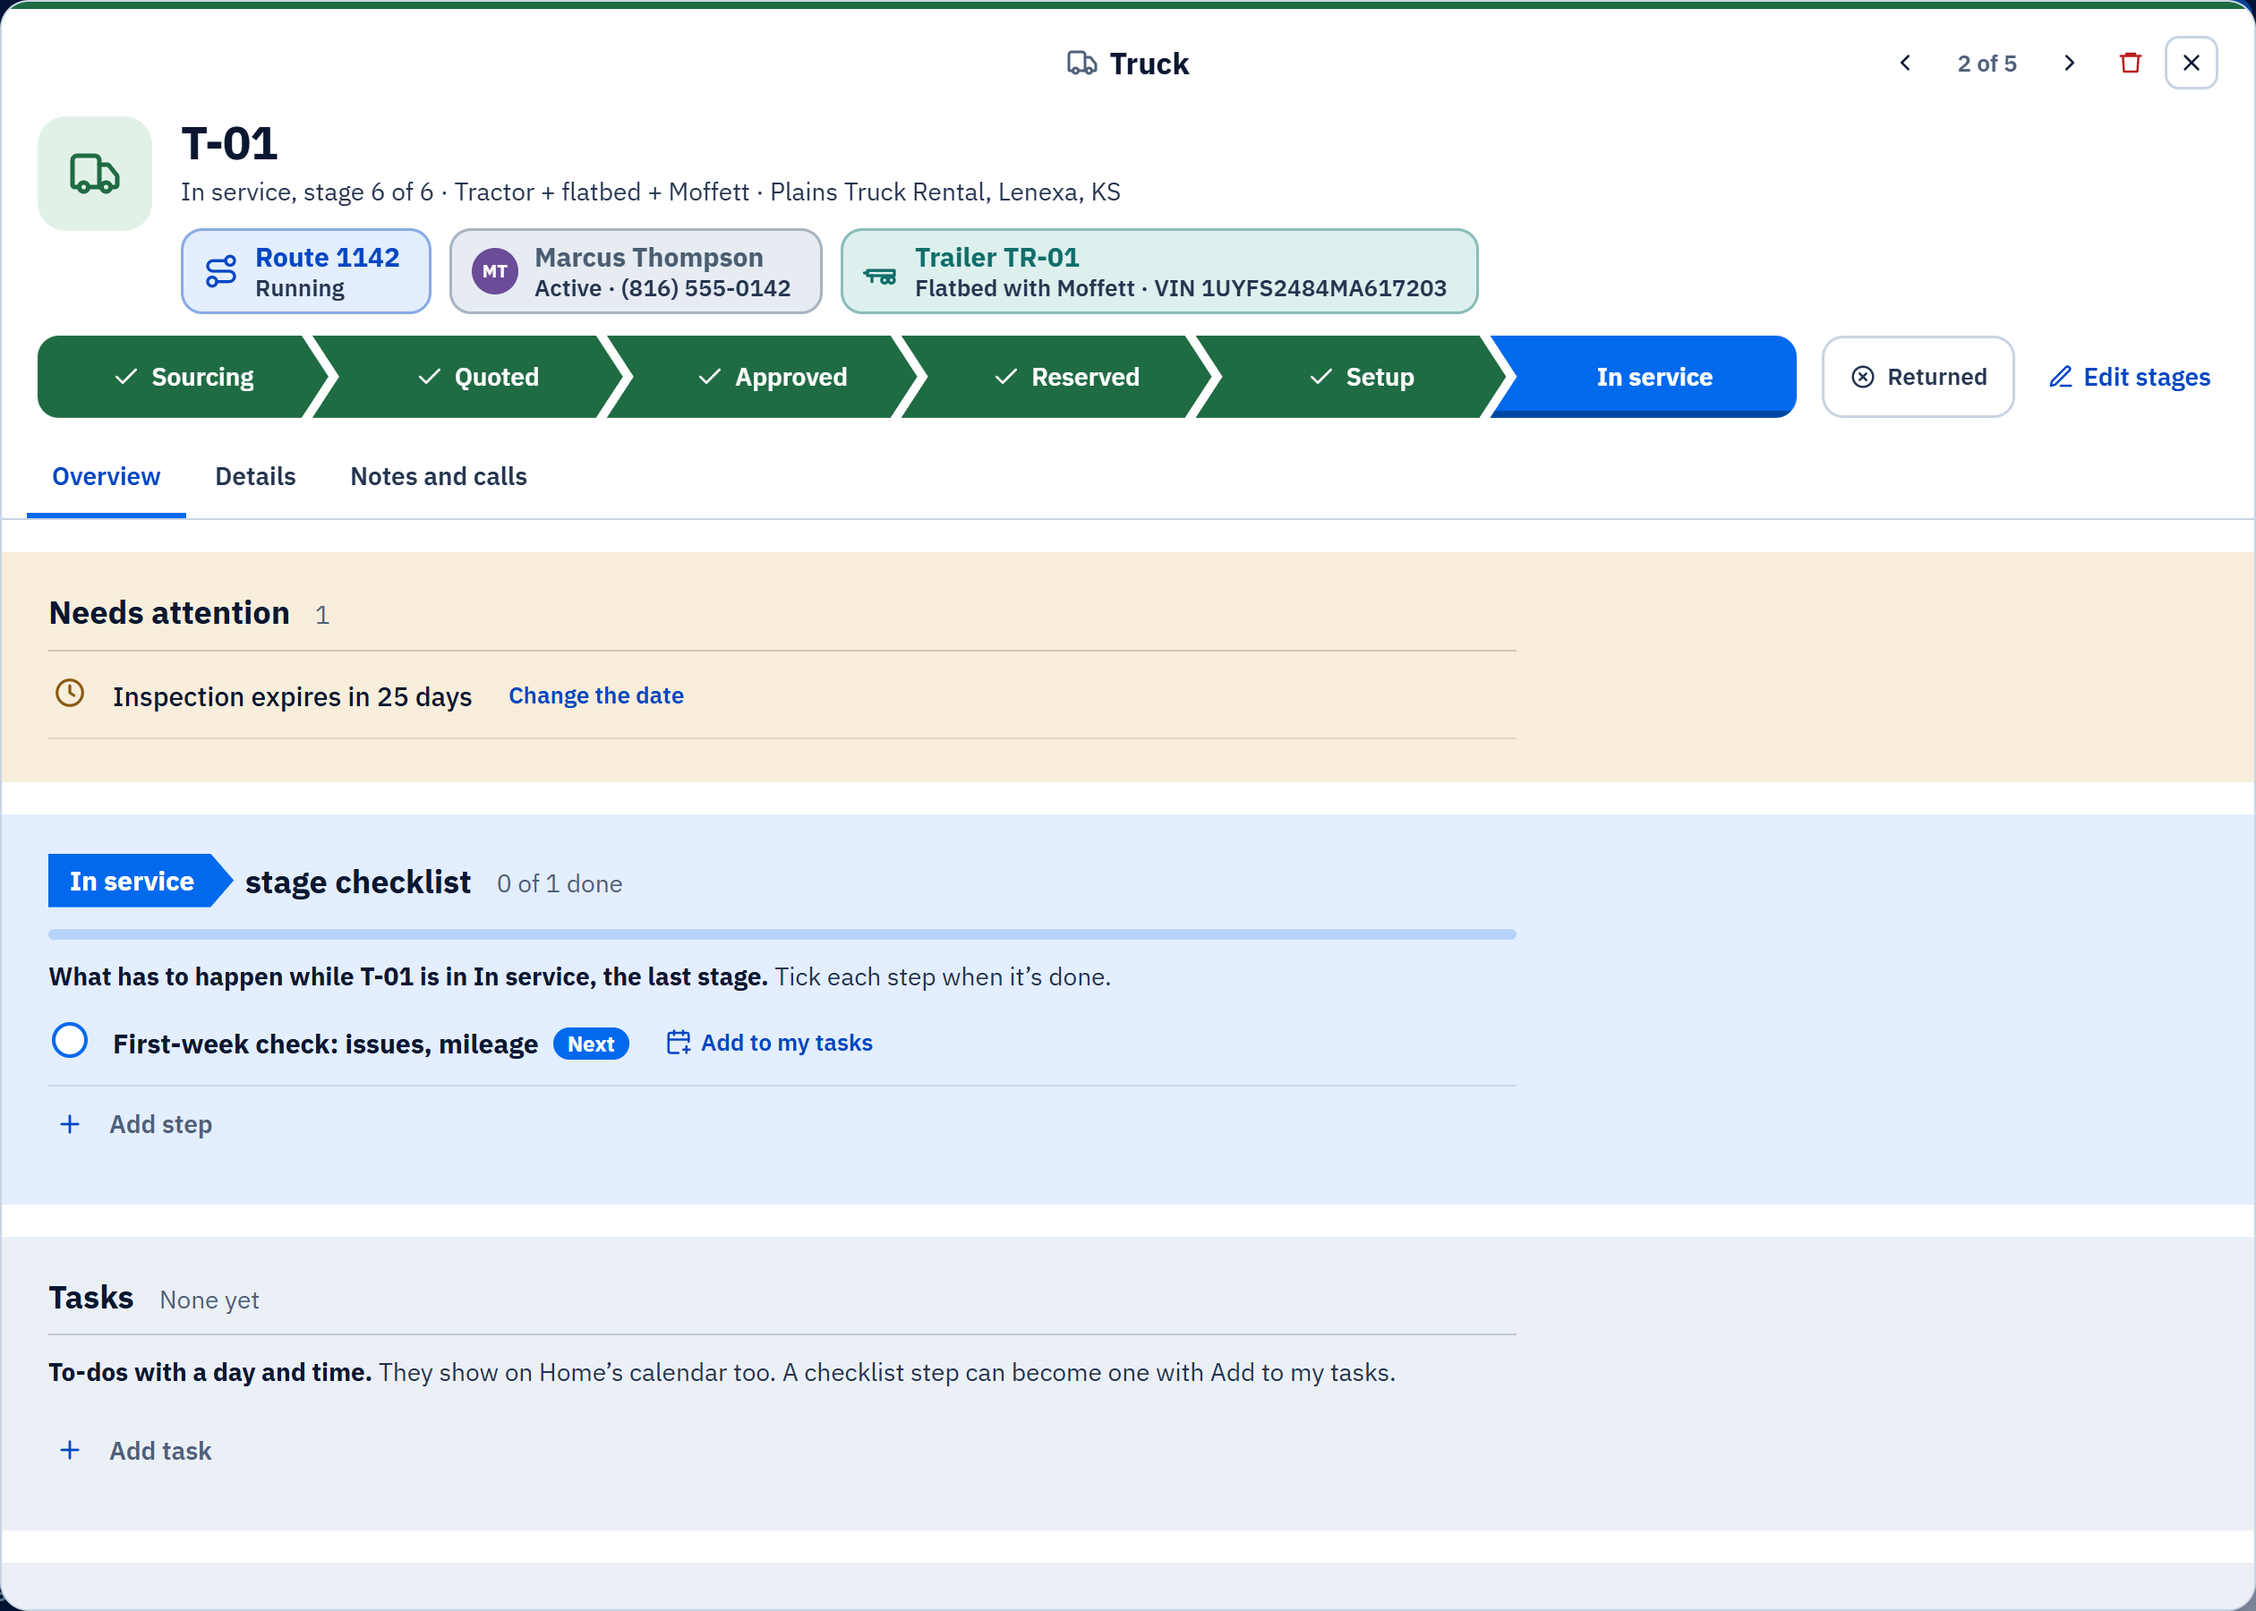
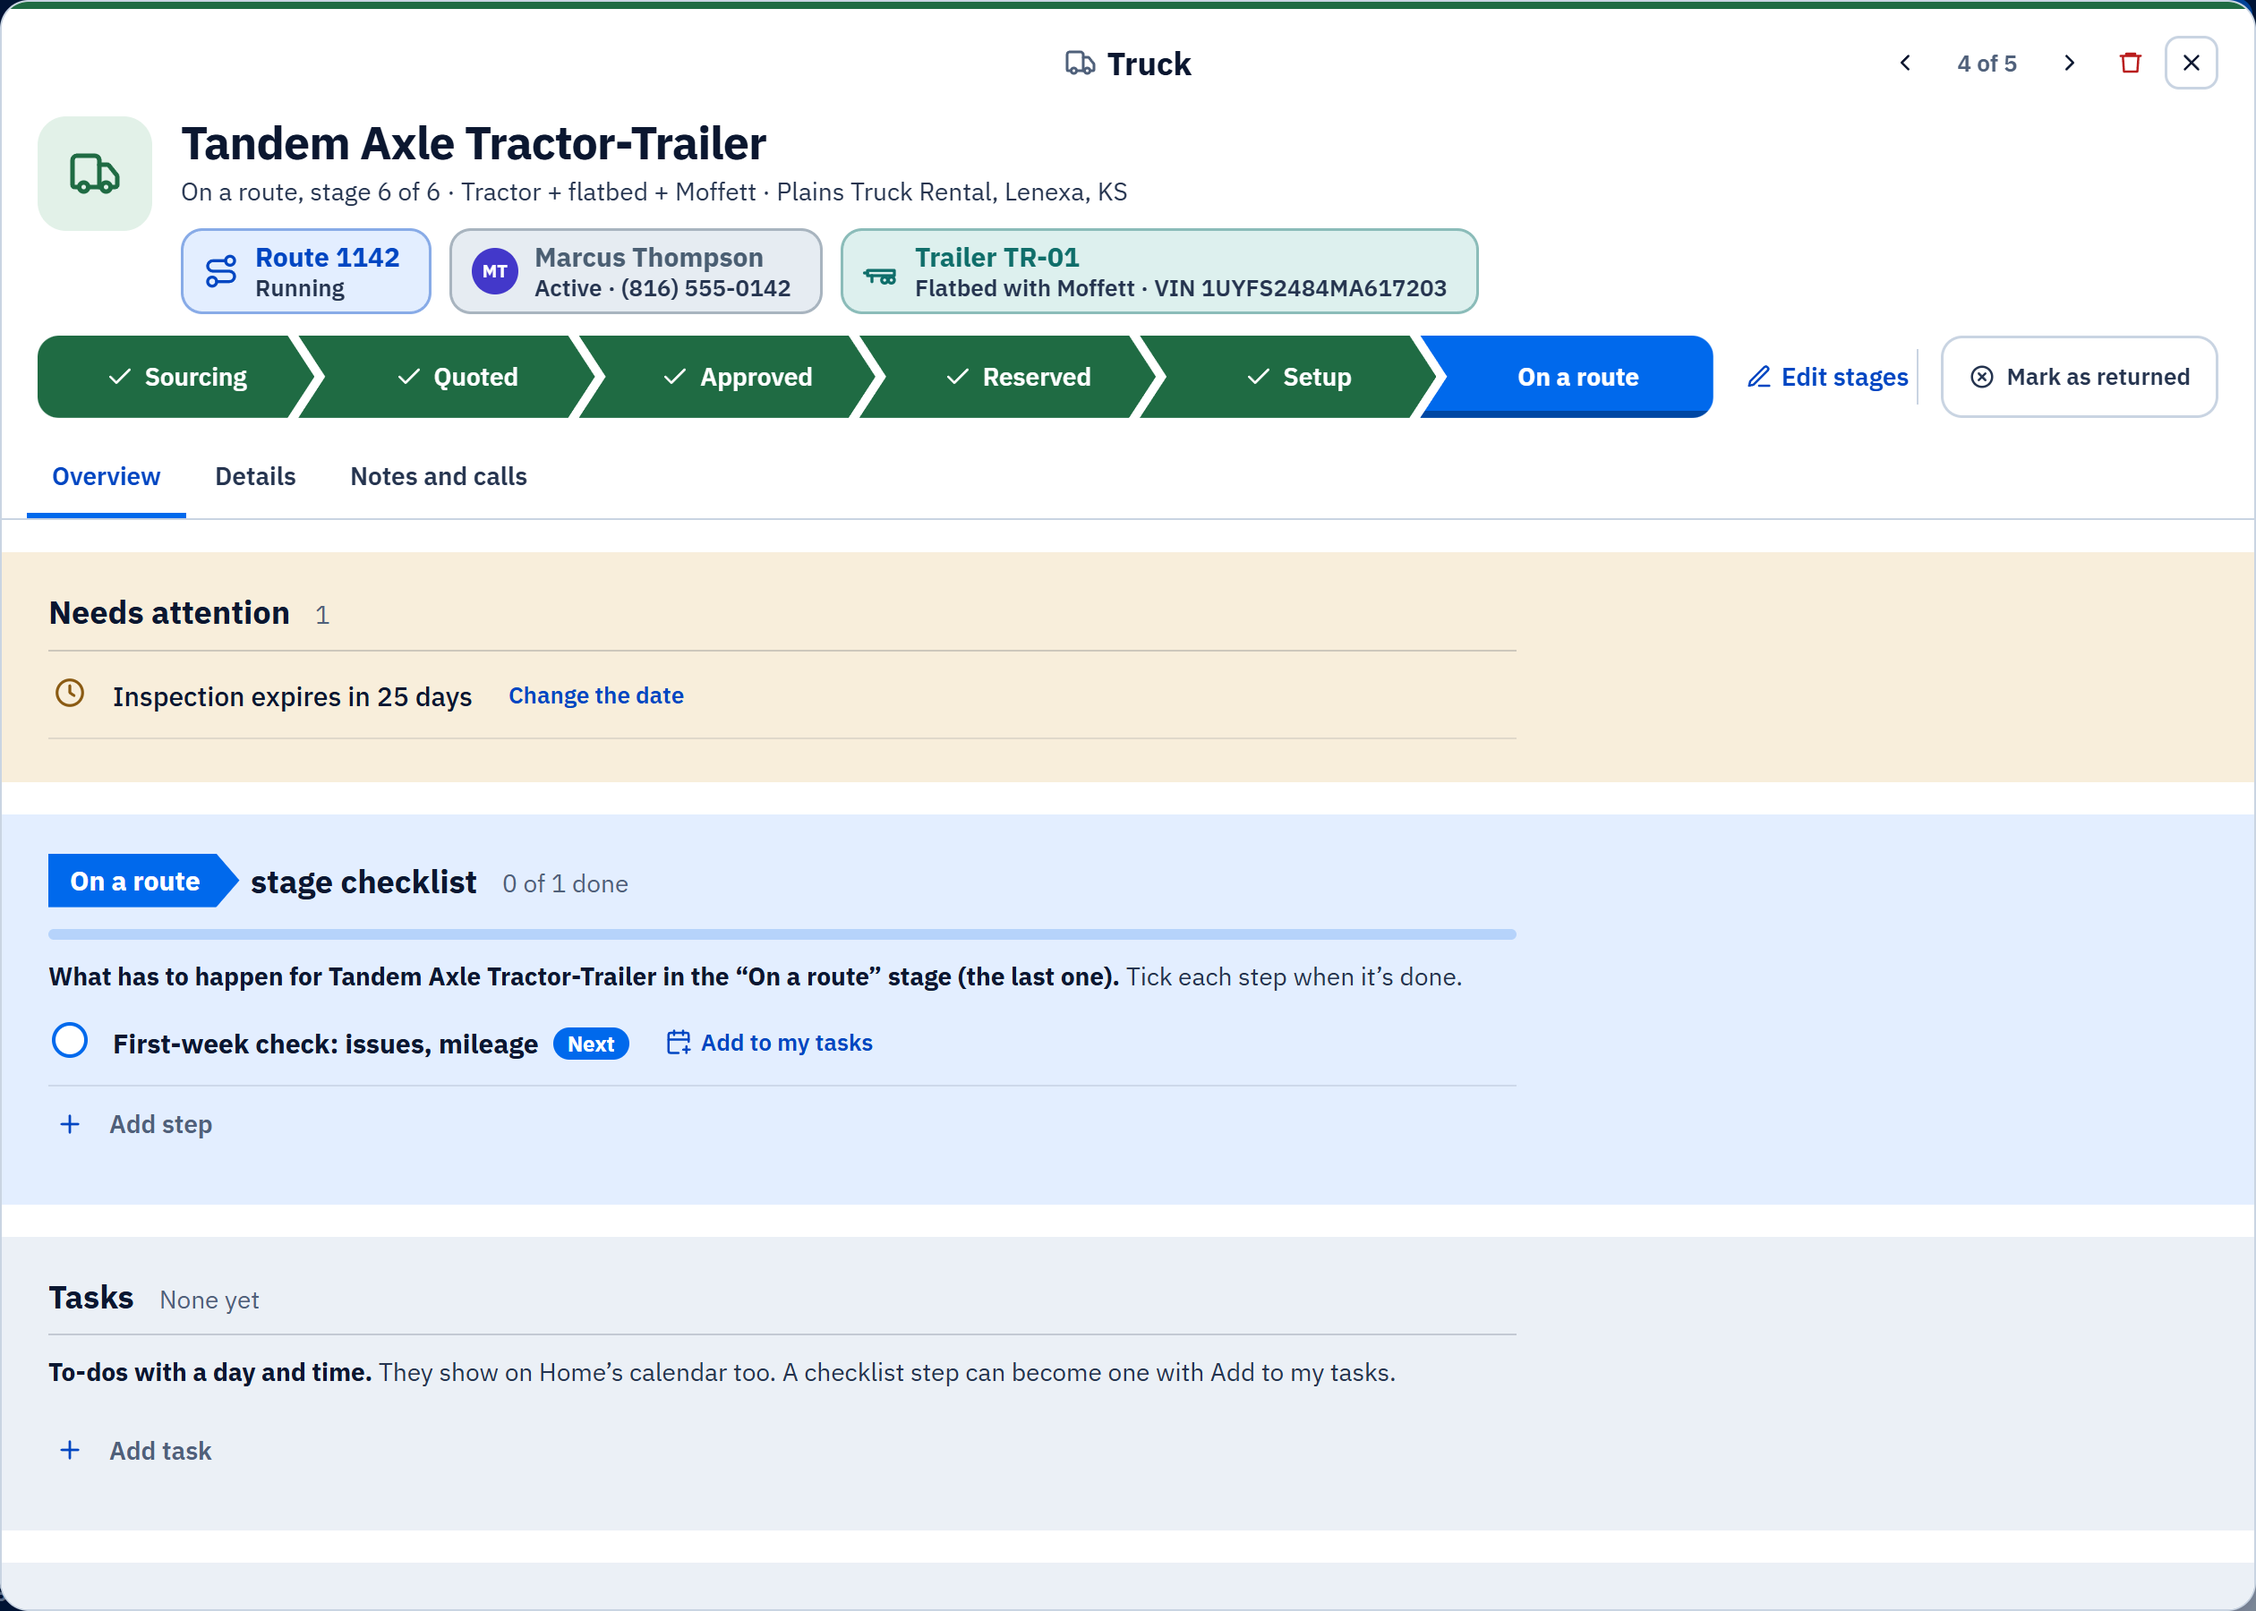
Tracker pictures: the truck named, On a route, and Mark as returned
New Driver and Truck pictures from the app's latest look: the page's label in
the middle of its top bar, the truck named "Tandem Axle Tractor-Trailer" (the
owner, 2026-10-20) and "On a route" as its last stage, and the way out at
the far right as "Mark as returned" / "Mark as not hired". The Fleet point
now says "from sourcing to its first route".

diff --git a/tracker.html b/tracker.html
@@ -62,7 +62,7 @@
       </div>
       <div class="slide" id="slide-2" role="tabpanel" aria-roledescription="slide" aria-label="3 of 3: Fleet">
         <div><span class="kicker">Fleet</span><h3>Equipment ready to roll</h3>
-          <div class="topics"><button type="button" class="topic on" aria-pressed="true" data-r="[1.19,20.16,97.62,6.44]" data-f="0.48,0.23,1.6"><b>Ready before it rolls</b><span>Every unit goes through the same steps, from sourcing to in service.</span><i class="time"></i></button><button type="button" class="topic" aria-pressed="false" data-r="[1.03,6.33,97.3,8.89]" data-f="0.27,0.11,1.8"><b>Every unit on record</b><span>Each truck and trailer with its configuration, status and paperwork.</span><i class="time"></i></button></div>
+          <div class="topics"><button type="button" class="topic on" aria-pressed="true" data-r="[1.19,20.16,97.62,6.44]" data-f="0.48,0.23,1.6"><b>Ready before it rolls</b><span>Every unit goes through the same steps, from sourcing to its first route.</span><i class="time"></i></button><button type="button" class="topic" aria-pressed="false" data-r="[1.03,6.33,97.3,8.89]" data-f="0.27,0.11,1.8"><b>Every unit on record</b><span>Each truck and trailer with its configuration, status and paperwork.</span><i class="time"></i></button></div>
           <div class="tdots" role="group" aria-label="Fleet: points"><button type="button" class="tdot" aria-pressed="true" aria-label="Point 1 of 2: Ready before it rolls"><i></i></button><button type="button" class="tdot" aria-pressed="false" aria-label="Point 2 of 2: Every unit on record"><i></i></button></div></div>
         <figure class="win"><div class="tb"><img src="assets/img/wave-small.png" alt="" width="81" height="22">SolidWave Tracker<span class="ctl" aria-hidden="true">&#8211;&nbsp;&nbsp;&#9633;&nbsp;&nbsp;&#215;</span></div>
           <div class="pic"><div class="zoom"><img src="assets/img/app/slide-equipment.png" alt="Fleet in SolidWave Tracker" width="1260" height="900" loading="lazy"><span class="lit" style="left:1.19%;top:20.16%;width:97.62%;height:6.44%"></span></div></div></figure>

diff --git a/tools/app-shots.js b/tools/app-shots.js
@@ -87,9 +87,10 @@ async function run() {
     slides.push({ img: "slide-routes.png", w: 1304, h: 931, topics: [rel(await R("#lTabs"), box, 8), rel(cols, box), rel(gap, box, 2)] });
   }
 
-  /* 3. Equipment: a truck's page (T-01, in service) */
+  /* 3. Equipment: a truck's page (T-01, in service), named the way the owner wants it shown (2026-10-20: "for the
+     truck write Tandem Axle Tractor-Trailer instead of T-01") */
   if (want("equipment")) {
-    await js(`go("trucks"); await new Promise(r=>setTimeout(r,300)); openSheet("truck", S.trucks.find(x=>x.unit==="T-01").id); await new Promise(r=>setTimeout(r,700)); if(document.activeElement) document.activeElement.blur();`);
+    await js(`const t1=S.trucks.find(x=>x.unit==="T-01"); t1.unit="Tandem Axle Tractor-Trailer"; save(); go("trucks"); await new Promise(r=>setTimeout(r,300)); openSheet("truck", t1.id); await new Promise(r=>setTimeout(r,700)); if(document.activeElement) document.activeElement.blur();`);
     sheet = await R("#sheet .sheet") || await R(".sheet"); box = { x: sheet.x, y: sheet.y, w: 1260, h: 900 };
     await shoot("slide-equipment", box);
     const title = await js(`const a=document.querySelector("#sheet .sh-ident").getBoundingClientRect(), b=document.querySelector("#sheet .sh-tt").getBoundingClientRect(); return {x:a.left-8, y:a.top-8, w:(b.right)-(a.left)+24, h:Math.max(a.height,b.height)+16};`);

diff --git a/tools/showcase.js b/tools/showcase.js
@@ -25,7 +25,7 @@ const COPY = [
     [1, "A driver and a truck on each", "Every route shows who's driving it and what they're driving."],
     [2, "Gaps caught the same day", "A route missing its driver or truck is flagged before it becomes a problem.", [0.35, 0.397, 2]]] },
   { tab: "Fleet", kicker: "Fleet", title: "Equipment ready to roll", topics: [
-    [1, "Ready before it rolls", "Every unit goes through the same steps, from sourcing to in service.", [0.48, 0.23, 1.6]],
+    [1, "Ready before it rolls", "Every unit goes through the same steps, from sourcing to its first route.", [0.48, 0.23, 1.6]],
     [0, "Every unit on record", "Each truck and trailer with its configuration, status and paperwork.", [0.27, 0.11, 1.8]]] },
   { tab: "Documents", kicker: "Documents", title: "Every paper in one place", topics: [
     [0, "All in one place", "CDLs, medical cards, insurance certificates, agreements. One list, nothing lost in a drawer."],
